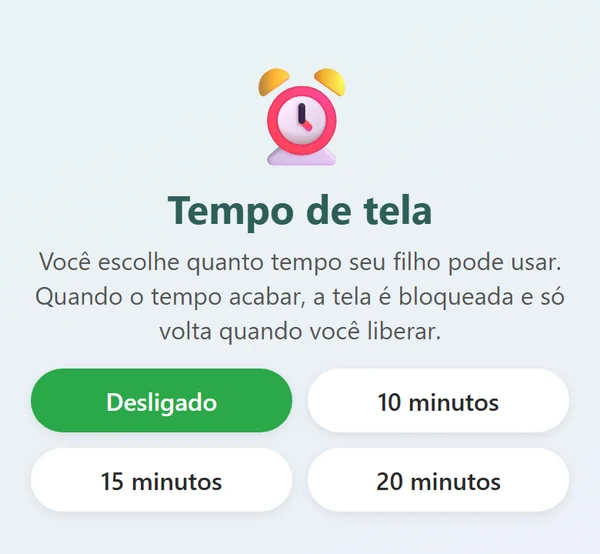
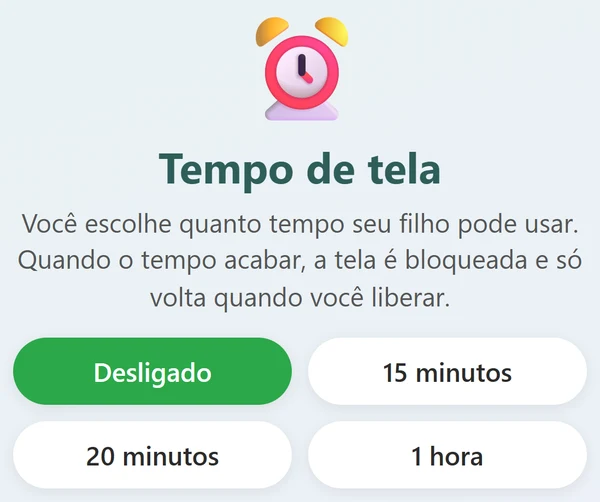
Atualiza o site do Colore com Helena

diff --git a/quiz.html b/quiz.html
@@ -132,7 +132,7 @@
     <!-- 22/11 (ideia dela: compra por impulso, uma decisão só): só o botão "Quero começar hoje" aparece; os outros 3 ficam ocultos (hidden) para não quebrar o rastreio. Antes: Ver como funciona / mensal / testar grátis -->
     <a class="botao" id="btnAssinar" href="https://pay.kiwify.com.br/RIK2pX5">Quero começar hoje</a>
     <a hidden class="botao" id="btnConhecer" href="vendas.html" style="background:#fff;color:#1B3A5C;border:2px solid #2BA84A;box-shadow:none;margin-top:10px">Ver como o app funciona</a>
-    <p class="mes" style="background:#FFF6D6;border-radius:12px;padding:10px 12px;color:var(--tinta);margin:12px 0 0">🎁 <b>Bônus para quem assina:</b> Kit 30 Dias de Férias com Telas Controladas + Mini Kit de Natal (PDF para imprimir)</p>
+    <p class="mes" style="background:#FFF6D6;border-radius:12px;padding:10px 12px;color:var(--tinta);margin:12px 0 0">🎁 <b>Bônus para quem assina:</b> Kit 30 Dias de Atividades com Telas Controladas + Mini Kit de Natal (PDF para imprimir)</p>
     <p class="garantia-l">🛡 7 dias de garantia: se não gostar, devolvemos 100%.</p>
     <a hidden class="link2" href="https://pay.kiwify.com.br/9P9HQon" id="btnMensal">Prefiro pagar mês a mês</a>
     <a hidden class="link2" href="./" id="btnGratis">Quero testar a parte grátis primeiro</a>

diff --git a/vendas.html b/vendas.html
@@ -246,7 +246,7 @@ document.addEventListener("click",function(e){var a=e.target.closest("a,button")
   <!-- 16/11: bônus de quem assina (qualquer plano), decisão da dona. Download aparece dentro do app para assinantes. -->
   <div class="cartao" style="background:#FFF6D6;text-align:center;margin:14px 0">
     <h2 style="font-size:20px">🎁 Bônus para quem assina</h2>
-    <p><b>Kit 30 Dias de Férias com Telas Controladas</b> + <b>Mini Kit de Natal</b>: atividades em PDF para imprimir quantas vezes quiser, com calendário do Advento. Você baixa dentro do app, logo depois de liberar a assinatura.</p>
+    <p><b>Kit 30 Dias de Atividades com Telas Controladas</b> + <b>Mini Kit de Natal</b>: atividades em PDF para imprimir quantas vezes quiser, com calendário do Advento. Você baixa dentro do app, logo depois de liberar a assinatura.</p>
   </div>
   <div class="precos">
     <div class="plano destaque">

diff --git a/obrigado.html b/obrigado.html
@@ -24,7 +24,7 @@
     iPhone: botão de compartilhar → "Adicionar à Tela de Início".</li>
   <li><b>Entre com o e-mail da compra:</b> toque numa atividade com cadeado → "Sou o adulto" → "Já sou assinante" → digite o mesmo e-mail que você usou na compra. Chega um código no seu e-mail: é só digitar.</li>
 </ol>
-<p>🎁 <b>Seu bônus</b> (Kit 30 Dias de Férias + Mini Kit de Natal): depois de liberar, aparece na tela inicial do app o botão <b>"Baixar meu bônus"</b>.</p>
+<p>🎁 <b>Seu bônus</b> (Kit 30 Dias de Atividades + Mini Kit de Natal): depois de liberar, aparece na tela inicial do app o botão <b>"Baixar meu bônus"</b>.</p>
 
 <div class="cartao">💡 <b>Dica da professora:</b> comece pelo Vale Encantado ou pelos Desenhos e brinquem juntos nos primeiros dias. Pouco tempo por dia, com conversa, vale mais do que muito tempo sozinho.</div>
 
